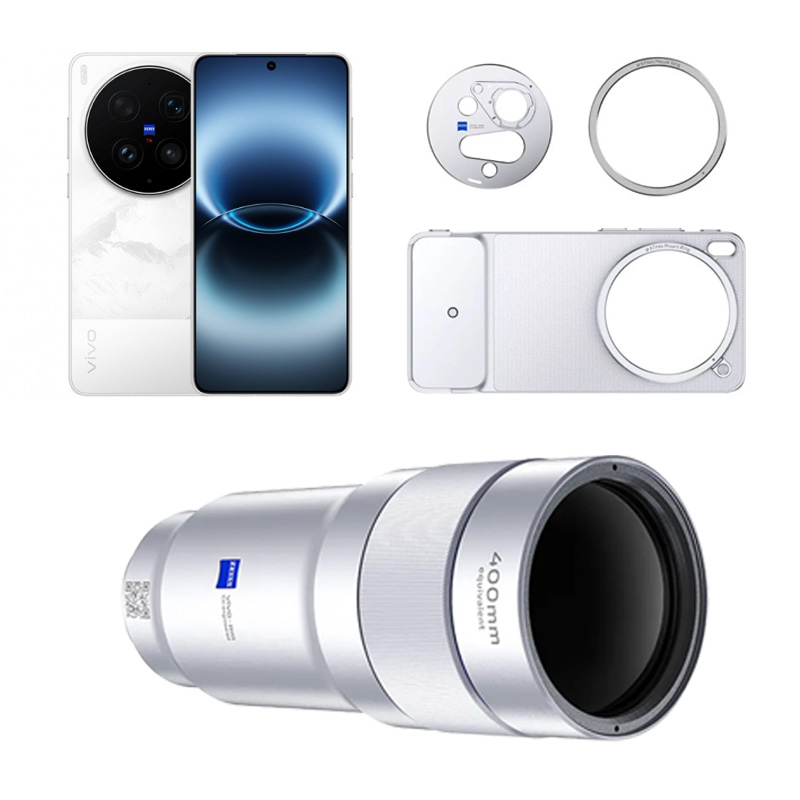
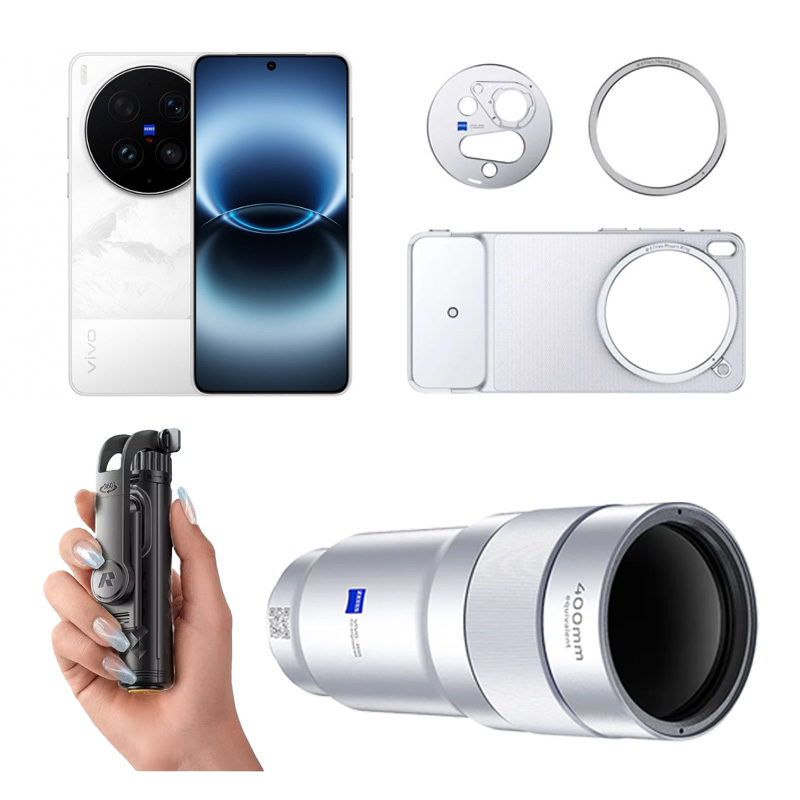
Update combo image and note

Changed region(s): [[0.0312, 0.5312, 0.9688, 0.9688]]

diff --git a/index.html b/index.html
@@ -14,9 +14,9 @@
       content="可單租手機、增距鏡，或組合租借；日曆會依選擇物品顯示可選與已滿日期。"
     />
     <meta property="og:type" content="website" />
-    <link rel="stylesheet" href="styles.css?v=calendar-20260823-14" />
-    <script src="config.js?v=calendar-20260823-14" defer></script>
-    <script src="script.js?v=calendar-20260823-14" defer></script>
+    <link rel="stylesheet" href="styles.css?v=calendar-20260823-15" />
+    <script src="config.js?v=calendar-20260823-15" defer></script>
+    <script src="script.js?v=calendar-20260823-15" defer></script>
   </head>
   <body>
     <header class="site-header">

diff --git a/script.js b/script.js
@@ -311,7 +311,7 @@ function updateItemSelection() {
     itemSummaryBox.hidden = false;
     itemSummaryBox.innerHTML = `
       <strong>${packageInfo.displayName}</strong>
-      <span>此方案附有專用攝影手機殼及1.3M手機支架(收縮後14CM)</span>
+      <span>附有專用攝影手機殼及1.3M迷你手機支架(收縮後僅14CM)</span>
     `;
   } else {
     itemSummaryBox.hidden = true;

diff --git a/styles.css b/styles.css
@@ -254,7 +254,7 @@ h3 {
   display: grid;
   grid-template-columns: minmax(132px, 32%) minmax(0, 1fr);
   gap: 14px;
-  align-items: stretch;
+  align-items: start;
   padding: 12px;
   border: 1px solid var(--line);
   border-radius: 8px;
@@ -321,7 +321,9 @@ h3 {
 
 .item-photo {
   aspect-ratio: 1 / 1;
+  display: block;
   height: auto;
+  align-self: start;
   border-radius: 7px;
 }
 
